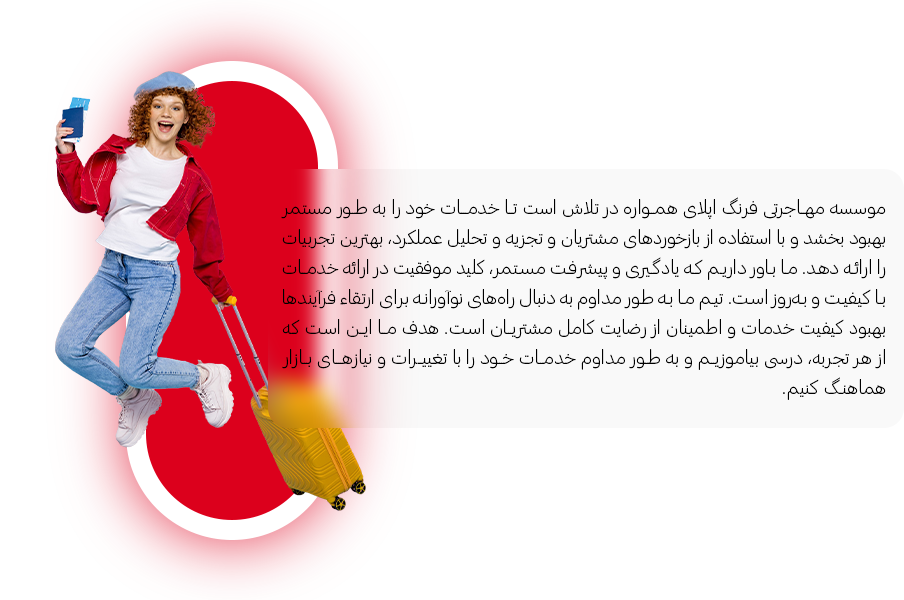
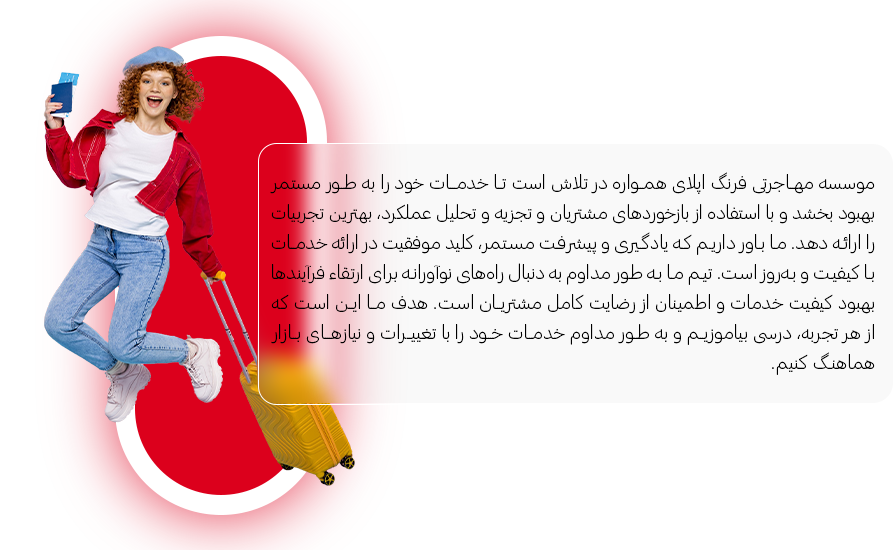
complete why-us-sec div and responsive and fixed bug on services title and hero img

Changed region(s): [[0.0312, 0.0, 1.0, 0.9891]]

diff --git a/index.html b/index.html
@@ -107,7 +107,7 @@
         </section>
 
         <section class="services-sec w-100 row d-flex flex-column">
-            <div class="servicrs-sec--title d-flex flex-column gap-2 align-items-center">
+            <div class="servicrs-sec--title d-flex flex-column gap-2 align-items-center mt-4 mt-sm-0">
                 <h2 class="m-0">خدمات ما</h2>
                 <p class="m-0 text-center">سرویس هایی که به مشتریان ارائه میدهیم...</p>
             </div>
@@ -137,8 +137,8 @@
             </div>
         </section>
 
-        <section class="why-us-sec w-100 row d-flex flex-column mt-5">
-            <div class="why-us-sec--title d-flex flex-column gap-2 align-items-start position-relative top-0 start-0">
+        <section class="why-us-sec w-100 row d-flex flex-row flex-sm-column mt-5">
+            <div class="why-us-sec--title d-flex flex-column gap-2 align-items-center align-items-sm-start">
               <h2 class="m-0">
                 چرا فرنگ اپلای
                 <img src="assets/images/why-us/exclamation-mark-black.png" alt="exclamation-mark-black...">
@@ -147,30 +147,30 @@
               <p class="m-0 text-center">دلیل انتخاب بهتون میدیم...</p>
             </div>
           
-            <div class="why-us-sec--context d-flex w-100 gap-2 align-items-center gap-0">
-              <div id="why-us-sec--context__r" class="why-us-sec--context__r col-8">
+            <div class="why-us-sec--context d-flex flex-column flex-sm-row w-100 gap-2 align-items-center gap-0">
+              <div id="why-us-sec--context__r" class="why-us-sec--context__r col col-sm-8 order-2 order-sm-1">
                 <img src="assets/images/why-us/services.png" alt="services...">
               </div>
           
-              <div class="why-us-sec--context__l col-4 text-center">
-                <div class="row d-flex flex-column gap-4 px-3 align-items-center">
-                  <div class="button-wrapper">
-                    <a onclick="showContent(1, this)" class="active btn btn col py-2 px-4 w-50 rounded-3 text-decoration-none">ارائه خدمات با کیفیت</a>
+              <div class="why-us-sec--context__l col-12 col-sm-4 text-center text-sm-start order-1 order-sm-2">
+                <div class="row d-flex flex-row flex-sm-column gap-0 gap-sm-3 gap-xl-4 pe-0 pe-sm-3 align-items-center">
+                  <div class="button-wrapper col p-1">
+                    <a onclick="showContent(event, 1, this)" class="active btn btn col p0-1 px-0 px-sm py-1 py-lg-2 rounded-3 text-decoration-none">ارائه خدمات</a>
                     <div class="button-box"></div>
                   </div>
           
-                  <div class="button-wrapper">
-                    <a onclick="showContent(event, 2, this)" class="btn btn col py-2 px-4 w-50 rounded-3 text-decoration-none">رفع نیاز های مشتریان</a>
+                  <div class="button-wrapper col p-1">
+                    <a onclick="showContent(event, 2, this)" class="btn btn col py-1 px-0 px-smy-lg-2 rounded-3 text-decoration-none">رفع نیاز ها</a>
                     <div class="button-box inactive"></div>
                   </div>
           
-                  <div class="button-wrapper">
-                    <a onclick="showContent(event, 3, this)" class="btn btn col py-2 px-4 w-50 rounded-3 text-decoration-none">شفافیت و اعتماد</a>
+                  <div class="button-wrapper col p-1">
+                    <a onclick="showContent(event, 3, this)" class="btn btn col py-1 px-0 px-smy-lg-2 rounded-3 text-decoration-none">شفافیت و اعتماد</a>
                     <div class="button-box inactive"></div>
                   </div>
           
-                  <div class="button-wrapper">
-                    <a onclick="showContent(event, 4, this)" class="btn btn col py-2 px-4 w-50 rounded-3 text-decoration-none">بهبود مستمر</a>
+                  <div class="button-wrapper col p-1">
+                    <a onclick="showContent(event, 4, this)" class="btn btn col py-1 px-0 px-smy-lg-2 rounded-3 text-decoration-none">بهبود مستمر</a>
                     <div class="button-box inactive"></div>
                   </div>
                 </div>

diff --git a/assets/css/index.css b/assets/css/index.css
@@ -300,6 +300,12 @@
     width: 100%;
 }
 
+.why-us-sec--title{
+    position: relative;
+    top: 100px;
+    left: 0;
+}
+
 .why-us-sec--title h2{
     font-family: vazir-b,'Gill Sans', 'Gill Sans MT', Calibri, 'Trebuchet MS', sans-serif;
     font-size: 28px;
@@ -311,7 +317,7 @@
     transform: rotate(-7deg);
 }
 
-    .why-us-sec--title p{
+.why-us-sec--title p{
     font-family: vazir-l,'Gill Sans', 'Gill Sans MT', Calibri, 'Trebuchet MS', sans-serif;
     color: #a4a4a4;
 }
@@ -422,6 +428,32 @@
         scroll-snap-align: end;
         width: 250px;
     }
+
+    .why-us-sec--title{
+        top: 70px;
+        left: 0;
+    }
+    
+    .why-us-sec--title h2{
+        font-size: 23px;
+    }
+
+    .why-us-sec--title h2 img{
+        width: 7px;
+    }
+
+    .why-us-sec--title p{
+        font-size: 15px;
+    }
+
+    .why-us-sec--context__l a{
+        font-size: 15px;
+    }
+    
+    .why-us-sec--context__l .button-box{
+        width: 20px;
+        padding: 13px 0;
+    }
 }
 
 
@@ -455,13 +487,36 @@
     .services-sec--context .row div {
         width: 230px;
     }
+
+    .why-us-sec--title h2{
+        font-size: 20px;
+    }
+
+    .why-us-sec--title h2 img{
+        width: 6px;
+    }
+
+    .why-us-sec--title p{
+        font-size: 13px;
+    }
+
+    .why-us-sec--context__l a{
+        font-size: 13px;
+    }
+    
+    .why-us-sec--context__l .button-box{
+        right: 3px;
+        width: 18px;
+        padding: 10px 0;
+    }
 }
 
 
 @media (max-width: 426px){
     .hero-section--img{
+        width: 80% !important;
+        padding: 0 !important;
         margin-top: 20px !important;
-        margin-left: 0 !important;
     }
 
     .hero-section--img__star-vector img:nth-child(1){
@@ -469,16 +524,19 @@
         left: -190px;
         top: -5px;
     }
+
     .hero-section--img__star-vector img:nth-child(2){
         width: 20px !important;
         top: -5px;
         left: -215px;
     }
+
     .hero-section--img__star-vector img:nth-child(3){
         width: 20px !important;
         top: -10px;
         left: -160px;
     }
+
     .hero-section--img__visa-img{
         width: 160px;
         top: 70%;
@@ -512,8 +570,43 @@
     .services-sec--context .row div {
         width: 180px;
     }
-}
 
+    .why-us-sec--title{
+        top: -10px;
+    }
+    
+    .why-us-sec--title h2{
+        font-size: 20px;
+    }
+
+    .why-us-sec--title h2 img{
+        width: 6px;
+    }
+
+    .why-us-sec--title p{
+        font-size: 13px;
+    }
+
+    .why-us-sec--context__l a{
+        font-size: 12px;
+    }
+    
+    .why-us-sec--context__l .button-box{
+        display: none;
+    }
+
+    .why-us-sec--context__l a{
+        background-color: #daf78c;
+        border: 2px solid #b8f10e;
+        border-style: dashed;
+    }
+
+    .why-us-sec--context__l .active{
+        background-color: #b8f10e !important;
+        border: 2px solid #b8f10e !important;
+        box-shadow: 0px 5px 20px 0px #b8f10e6f;
+    }
+}
 
 @media (max-width: 376px){
     .hero-section--text h1{
@@ -526,6 +619,12 @@
 
     .hero-section--text h3{
         font-size: 18px;
+    }
+
+    .why-us-sec--context__l a{
+        padding: 0 2px !important;
+        border-radius: 8px !important;
+        font-size: 10px;
     }
 }
 
